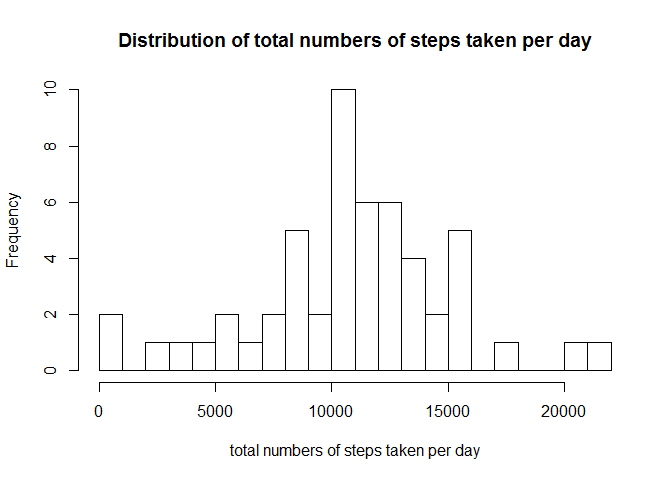
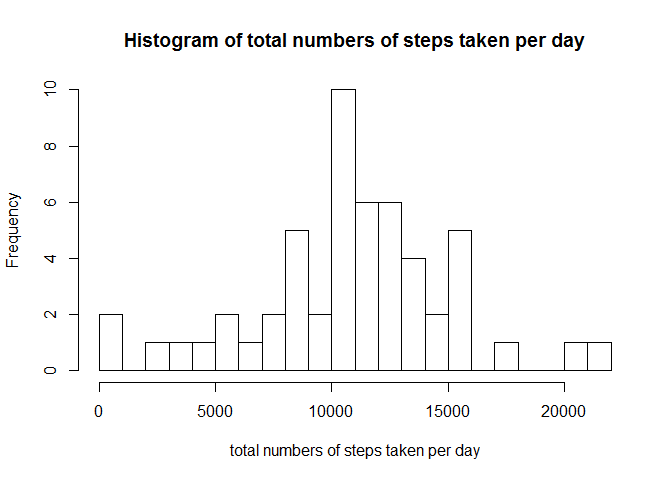
second commit
add comments and lables

Changed region(s): [[0.1562, 0.0625, 0.875, 0.125]]

diff --git a/PA1_template.html b/PA1_template.html
@@ -64,64 +64,9 @@ df &lt;-read.csv(&quot;activity.csv&quot;)</code></pre>
 <h2>What is mean total number of steps taken per day?</h2>
 <pre class="r"><code># calculate total number of steps taken per day
 df_sum &lt;- aggregate(steps ~ date, df, sum)
-df_sum</code></pre>
-<pre><code>##          date steps
-## 1  2012-10-02   126
-## 2  2012-10-03 11352
-## 3  2012-10-04 12116
-## 4  2012-10-05 13294
-## 5  2012-10-06 15420
-## 6  2012-10-07 11015
-## 7  2012-10-09 12811
-## 8  2012-10-10  9900
-## 9  2012-10-11 10304
-## 10 2012-10-12 17382
-## 11 2012-10-13 12426
-## 12 2012-10-14 15098
-## 13 2012-10-15 10139
-## 14 2012-10-16 15084
-## 15 2012-10-17 13452
-## 16 2012-10-18 10056
-## 17 2012-10-19 11829
-## 18 2012-10-20 10395
-## 19 2012-10-21  8821
-## 20 2012-10-22 13460
-## 21 2012-10-23  8918
-## 22 2012-10-24  8355
-## 23 2012-10-25  2492
-## 24 2012-10-26  6778
-## 25 2012-10-27 10119
-## 26 2012-10-28 11458
-## 27 2012-10-29  5018
-## 28 2012-10-30  9819
-## 29 2012-10-31 15414
-## 30 2012-11-02 10600
-## 31 2012-11-03 10571
-## 32 2012-11-05 10439
-## 33 2012-11-06  8334
-## 34 2012-11-07 12883
-## 35 2012-11-08  3219
-## 36 2012-11-11 12608
-## 37 2012-11-12 10765
-## 38 2012-11-13  7336
-## 39 2012-11-15    41
-## 40 2012-11-16  5441
-## 41 2012-11-17 14339
-## 42 2012-11-18 15110
-## 43 2012-11-19  8841
-## 44 2012-11-20  4472
-## 45 2012-11-21 12787
-## 46 2012-11-22 20427
-## 47 2012-11-23 21194
-## 48 2012-11-24 14478
-## 49 2012-11-25 11834
-## 50 2012-11-26 11162
-## 51 2012-11-27 13646
-## 52 2012-11-28 10183
-## 53 2012-11-29  7047</code></pre>
-<pre class="r"><code># make histogram of total number of steps taken per day
-hist(df_sum$steps, xlab=&quot;total numbers of steps taken per day&quot;,main=&quot;Distribution of total numbers of steps taken per day&quot;,breaks=22)</code></pre>
[1 lines of base64/hex data omitted]
+# make histogram of total number of steps taken per day
+hist(df_sum$steps, xlab=&quot;total numbers of steps taken per day&quot;,main=&quot;Histogram of total numbers of steps taken per day&quot;,breaks=22)</code></pre>
[1 lines of base64/hex data omitted]
 <pre class="r"><code>#Calculate and report the mean and median of the total #number of steps taken per day
 summary(df_sum$steps)</code></pre>
 <pre><code>##    Min. 1st Qu.  Median    Mean 3rd Qu.    Max. 
@@ -154,75 +99,12 @@ df_impute &lt;- subset(df_merge,select=c(&quot;steps.x&quot;,&quot;date&quot;,&q
 names(df_impute)[1] &lt;-&quot;steps&quot; # rename column
 df_new &lt;-rbind(df_complete,df_impute) # combine two
 # Create new dataset that is equal to the original dataset # but with the missing data filled in.
-df_new &lt;- df_new[order(df_new$date,df_new$interval),] #order it
+df_new &lt;- df_new[order(df_new$date,df_new$interval),] 
 # calculate total number of steps taken per day
 df_sum_new &lt;- aggregate(steps ~ date, df_new, sum)
-df_sum_new</code></pre>
-<pre><code>##          date    steps
-## 1  2012-10-01 10766.19
-## 2  2012-10-02   126.00
-## 3  2012-10-03 11352.00
-## 4  2012-10-04 12116.00
-## 5  2012-10-05 13294.00
-## 6  2012-10-06 15420.00
-## 7  2012-10-07 11015.00
-## 8  2012-10-08 10766.19
-## 9  2012-10-09 12811.00
-## 10 2012-10-10  9900.00
-## 11 2012-10-11 10304.00
-## 12 2012-10-12 17382.00
-## 13 2012-10-13 12426.00
-## 14 2012-10-14 15098.00
-## 15 2012-10-15 10139.00
-## 16 2012-10-16 15084.00
-## 17 2012-10-17 13452.00
-## 18 2012-10-18 10056.00
-## 19 2012-10-19 11829.00
-## 20 2012-10-20 10395.00
-## 21 2012-10-21  8821.00
-## 22 2012-10-22 13460.00
-## 23 2012-10-23  8918.00
-## 24 2012-10-24  8355.00
-## 25 2012-10-25  2492.00
-## 26 2012-10-26  6778.00
-## 27 2012-10-27 10119.00
-## 28 2012-10-28 11458.00
-## 29 2012-10-29  5018.00
-## 30 2012-10-30  9819.00
-## 31 2012-10-31 15414.00
-## 32 2012-11-01 10766.19
-## 33 2012-11-02 10600.00
-## 34 2012-11-03 10571.00
-## 35 2012-11-04 10766.19
-## 36 2012-11-05 10439.00
-## 37 2012-11-06  8334.00
-## 38 2012-11-07 12883.00
-## 39 2012-11-08  3219.00
-## 40 2012-11-09 10766.19
-## 41 2012-11-10 10766.19
-## 42 2012-11-11 12608.00
-## 43 2012-11-12 10765.00
-## 44 2012-11-13  7336.00
-## 45 2012-11-14 10766.19
-## 46 2012-11-15    41.00
-## 47 2012-11-16  5441.00
-## 48 2012-11-17 14339.00
-## 49 2012-11-18 15110.00
-## 50 2012-11-19  8841.00
-## 51 2012-11-20  4472.00
-## 52 2012-11-21 12787.00
-## 53 2012-11-22 20427.00
-## 54 2012-11-23 21194.00
-## 55 2012-11-24 14478.00
-## 56 2012-11-25 11834.00
-## 57 2012-11-26 11162.00
-## 58 2012-11-27 13646.00
-## 59 2012-11-28 10183.00
-## 60 2012-11-29  7047.00
-## 61 2012-11-30 10766.19</code></pre>
-<pre class="r"><code># make histogram of total number of steps taken per day
-hist(df_sum_new$steps, xlab=&quot;total numbers of steps taken per day&quot;,main=&quot;Distribution of total numbers of steps taken per day&quot;,breaks=22)</code></pre>
[1 lines of base64/hex data omitted]
+# make histogram of total number of steps taken per day
+hist(df_sum_new$steps, xlab=&quot;total numbers of steps taken per day with imputed missing values &quot;,main=&quot;Histogram of total numbers of steps taken per day&quot;,breaks=22)</code></pre>
[1 lines of base64/hex data omitted]
 <pre class="r"><code>#Calculate and report the mean and median of the total #number of steps taken per day
 summary(df_sum_new$steps)</code></pre>
 <pre><code>##    Min. 1st Qu.  Median    Mean 3rd Qu.    Max. 
@@ -240,7 +122,10 @@ df_weekend_avg &lt;-aggregate (steps ~ interval,df_weekend, mean)
 df_weekday_avg$weekdays &lt;- c(&quot;weekday&quot;)
 df_weekend_avg$weekdays &lt;- c(&quot;weekend&quot;)
 df_comb&lt;- rbind(df_weekday_avg,df_weekend_avg)
-df_comb$weekdays &lt;- factor(df_comb$weekdays) # crt 2 lvl
+#Create a new factor variable in the dataset with two #levels - &quot;weekday&quot; and &quot;weekend&quot;
+df_comb$weekdays &lt;- factor(df_comb$weekdays)
+#Make a panel plot containing a time series plot for both 
+# weekday and weekend
 library(ggplot2)
 qplot(interval, steps,data=df_comb,facets=weekdays~.,geom=c(&quot;line&quot;),ylab=&quot;Number of steps&quot;)</code></pre>
[1 lines of base64/hex data omitted]

diff --git a/PA1_template.md b/PA1_template.md
@@ -15,69 +15,8 @@ df <-read.csv("activity.csv")
 ```r
 # calculate total number of steps taken per day
 df_sum <- aggregate(steps ~ date, df, sum)
-df_sum
-```
-
-```
-##          date steps
-## 1  2012-10-02   126
-## 2  2012-10-03 11352
-## 3  2012-10-04 12116
-## 4  2012-10-05 13294
-## 5  2012-10-06 15420
-## 6  2012-10-07 11015
-## 7  2012-10-09 12811
-## 8  2012-10-10  9900
-## 9  2012-10-11 10304
-## 10 2012-10-12 17382
-## 11 2012-10-13 12426
-## 12 2012-10-14 15098
-## 13 2012-10-15 10139
-## 14 2012-10-16 15084
-## 15 2012-10-17 13452
-## 16 2012-10-18 10056
-## 17 2012-10-19 11829
-## 18 2012-10-20 10395
-## 19 2012-10-21  8821
-## 20 2012-10-22 13460
-## 21 2012-10-23  8918
-## 22 2012-10-24  8355
-## 23 2012-10-25  2492
-## 24 2012-10-26  6778
-## 25 2012-10-27 10119
-## 26 2012-10-28 11458
-## 27 2012-10-29  5018
-## 28 2012-10-30  9819
-## 29 2012-10-31 15414
-## 30 2012-11-02 10600
-## 31 2012-11-03 10571
-## 32 2012-11-05 10439
-## 33 2012-11-06  8334
-## 34 2012-11-07 12883
-## 35 2012-11-08  3219
-## 36 2012-11-11 12608
-## 37 2012-11-12 10765
-## 38 2012-11-13  7336
-## 39 2012-11-15    41
-## 40 2012-11-16  5441
-## 41 2012-11-17 14339
-## 42 2012-11-18 15110
-## 43 2012-11-19  8841
-## 44 2012-11-20  4472
-## 45 2012-11-21 12787
-## 46 2012-11-22 20427
-## 47 2012-11-23 21194
-## 48 2012-11-24 14478
-## 49 2012-11-25 11834
-## 50 2012-11-26 11162
-## 51 2012-11-27 13646
-## 52 2012-11-28 10183
-## 53 2012-11-29  7047
-```
-
-```r
 # make histogram of total number of steps taken per day
-hist(df_sum$steps, xlab="total numbers of steps taken per day",main="Distribution of total numbers of steps taken per day",breaks=22)
+hist(df_sum$steps, xlab="total numbers of steps taken per day",main="Histogram of total numbers of steps taken per day",breaks=22)
 ```
 
 ![](PA1_template_files/figure-html/unnamed-chunk-2-1.png) 
@@ -137,80 +76,11 @@ df_impute <- subset(df_merge,select=c("steps.x","date","interval")) # only take 
 names(df_impute)[1] <-"steps" # rename column
 df_new <-rbind(df_complete,df_impute) # combine two
 # Create new dataset that is equal to the original dataset # but with the missing data filled in.
-df_new <- df_new[order(df_new$date,df_new$interval),] #order it
+df_new <- df_new[order(df_new$date,df_new$interval),] 
 # calculate total number of steps taken per day
 df_sum_new <- aggregate(steps ~ date, df_new, sum)
-df_sum_new
-```
-
-```
-##          date    steps
-## 1  2012-10-01 10766.19
-## 2  2012-10-02   126.00
-## 3  2012-10-03 11352.00
-## 4  2012-10-04 12116.00
-## 5  2012-10-05 13294.00
-## 6  2012-10-06 15420.00
-## 7  2012-10-07 11015.00
-## 8  2012-10-08 10766.19
-## 9  2012-10-09 12811.00
-## 10 2012-10-10  9900.00
-## 11 2012-10-11 10304.00
-## 12 2012-10-12 17382.00
-## 13 2012-10-13 12426.00
-## 14 2012-10-14 15098.00
-## 15 2012-10-15 10139.00
-## 16 2012-10-16 15084.00
-## 17 2012-10-17 13452.00
-## 18 2012-10-18 10056.00
-## 19 2012-10-19 11829.00
-## 20 2012-10-20 10395.00
-## 21 2012-10-21  8821.00
-## 22 2012-10-22 13460.00
-## 23 2012-10-23  8918.00
-## 24 2012-10-24  8355.00
-## 25 2012-10-25  2492.00
-## 26 2012-10-26  6778.00
-## 27 2012-10-27 10119.00
-## 28 2012-10-28 11458.00
-## 29 2012-10-29  5018.00
-## 30 2012-10-30  9819.00
-## 31 2012-10-31 15414.00
-## 32 2012-11-01 10766.19
-## 33 2012-11-02 10600.00
-## 34 2012-11-03 10571.00
-## 35 2012-11-04 10766.19
-## 36 2012-11-05 10439.00
-## 37 2012-11-06  8334.00
-## 38 2012-11-07 12883.00
-## 39 2012-11-08  3219.00
-## 40 2012-11-09 10766.19
-## 41 2012-11-10 10766.19
-## 42 2012-11-11 12608.00
-## 43 2012-11-12 10765.00
-## 44 2012-11-13  7336.00
-## 45 2012-11-14 10766.19
-## 46 2012-11-15    41.00
-## 47 2012-11-16  5441.00
-## 48 2012-11-17 14339.00
-## 49 2012-11-18 15110.00
-## 50 2012-11-19  8841.00
-## 51 2012-11-20  4472.00
-## 52 2012-11-21 12787.00
-## 53 2012-11-22 20427.00
-## 54 2012-11-23 21194.00
-## 55 2012-11-24 14478.00
-## 56 2012-11-25 11834.00
-## 57 2012-11-26 11162.00
-## 58 2012-11-27 13646.00
-## 59 2012-11-28 10183.00
-## 60 2012-11-29  7047.00
-## 61 2012-11-30 10766.19
-```
-
-```r
 # make histogram of total number of steps taken per day
-hist(df_sum_new$steps, xlab="total numbers of steps taken per day",main="Distribution of total numbers of steps taken per day",breaks=22)
+hist(df_sum_new$steps, xlab="total numbers of steps taken per day with imputed missing values ",main="Histogram of total numbers of steps taken per day",breaks=22)
 ```
 
 ![](PA1_template_files/figure-html/unnamed-chunk-4-1.png) 
@@ -239,7 +109,10 @@ df_weekend_avg <-aggregate (steps ~ interval,df_weekend, mean)
 df_weekday_avg$weekdays <- c("weekday")
 df_weekend_avg$weekdays <- c("weekend")
 df_comb<- rbind(df_weekday_avg,df_weekend_avg)
-df_comb$weekdays <- factor(df_comb$weekdays) # crt 2 lvl
+#Create a new factor variable in the dataset with two #levels - "weekday" and "weekend"
+df_comb$weekdays <- factor(df_comb$weekdays)
+#Make a panel plot containing a time series plot for both 
+# weekday and weekend
 library(ggplot2)
 qplot(interval, steps,data=df_comb,facets=weekdays~.,geom=c("line"),ylab="Number of steps")
 ```
